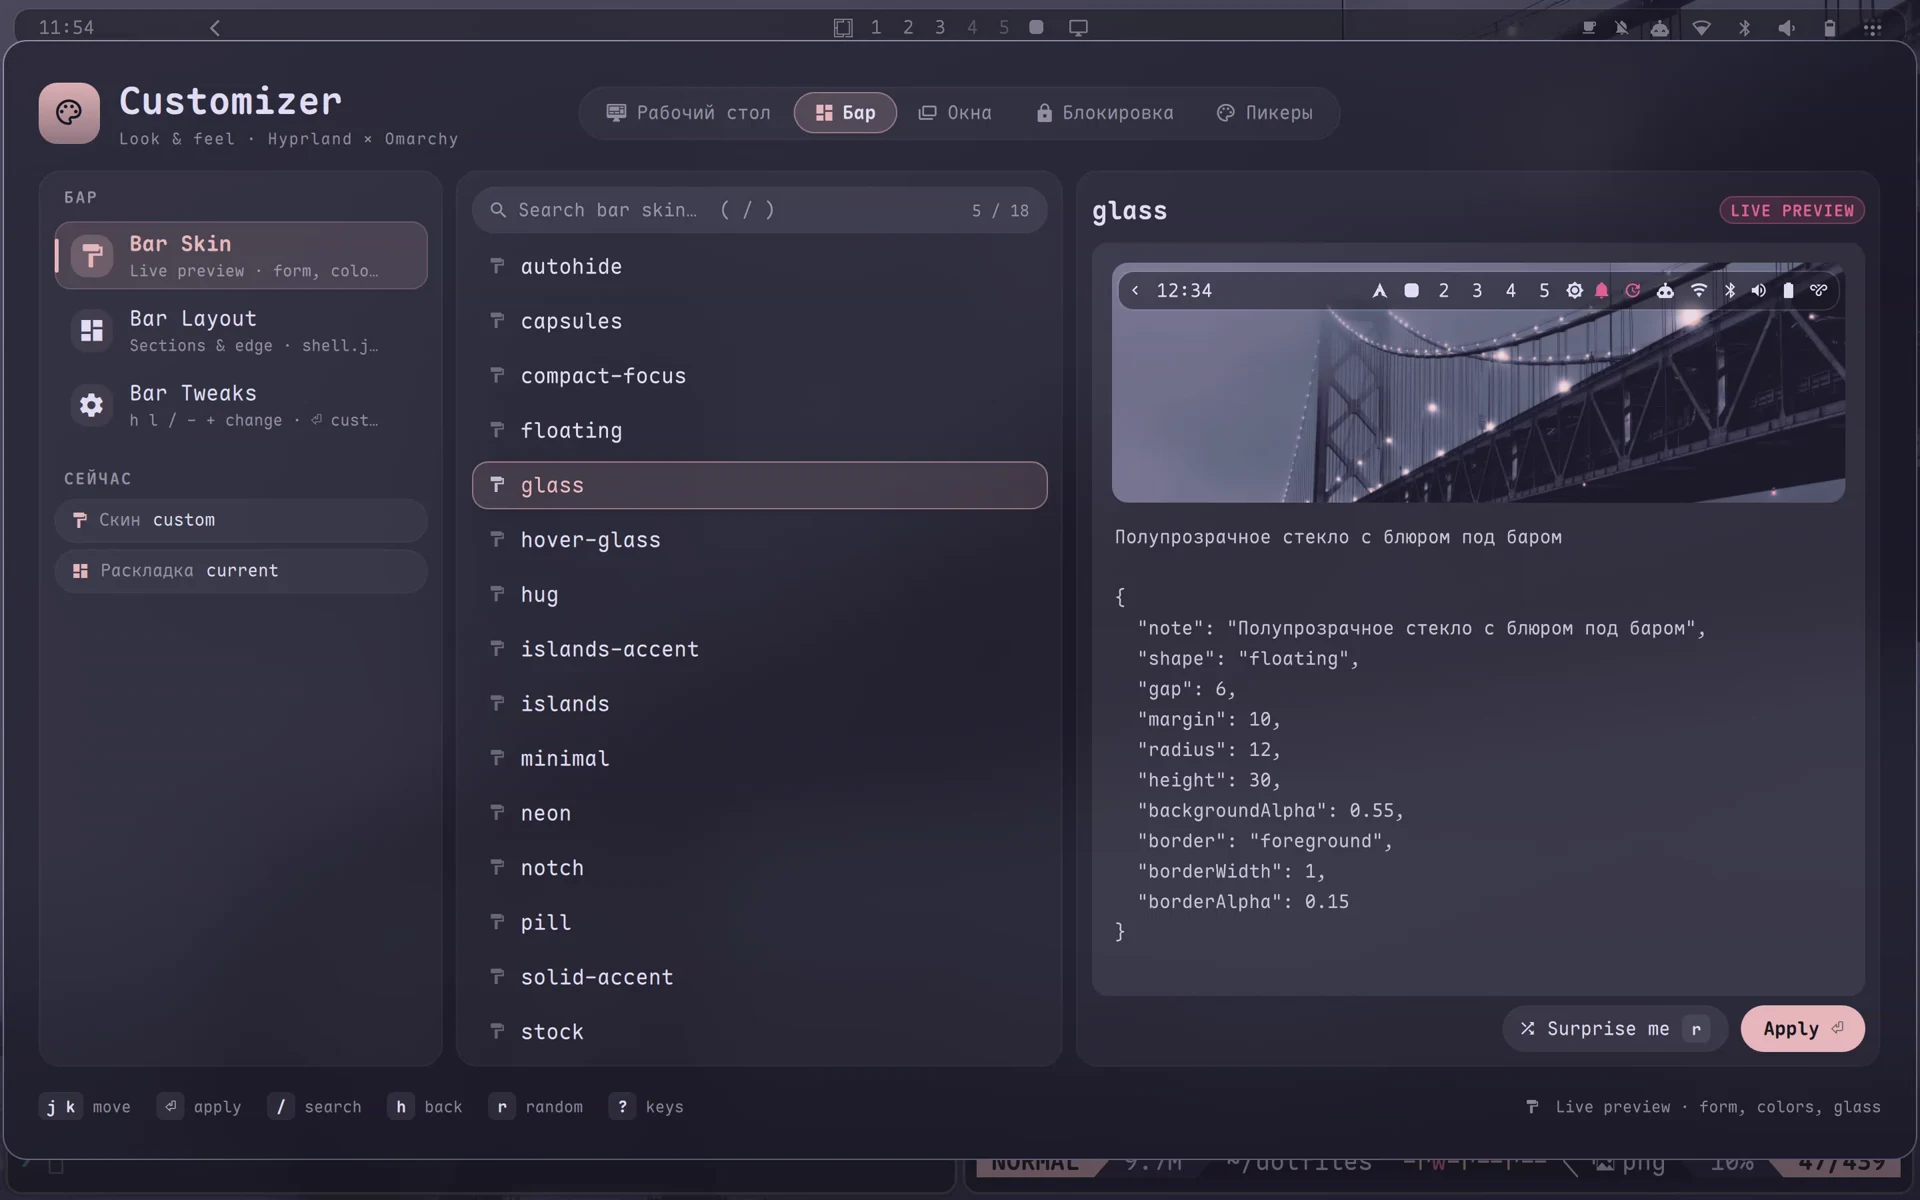
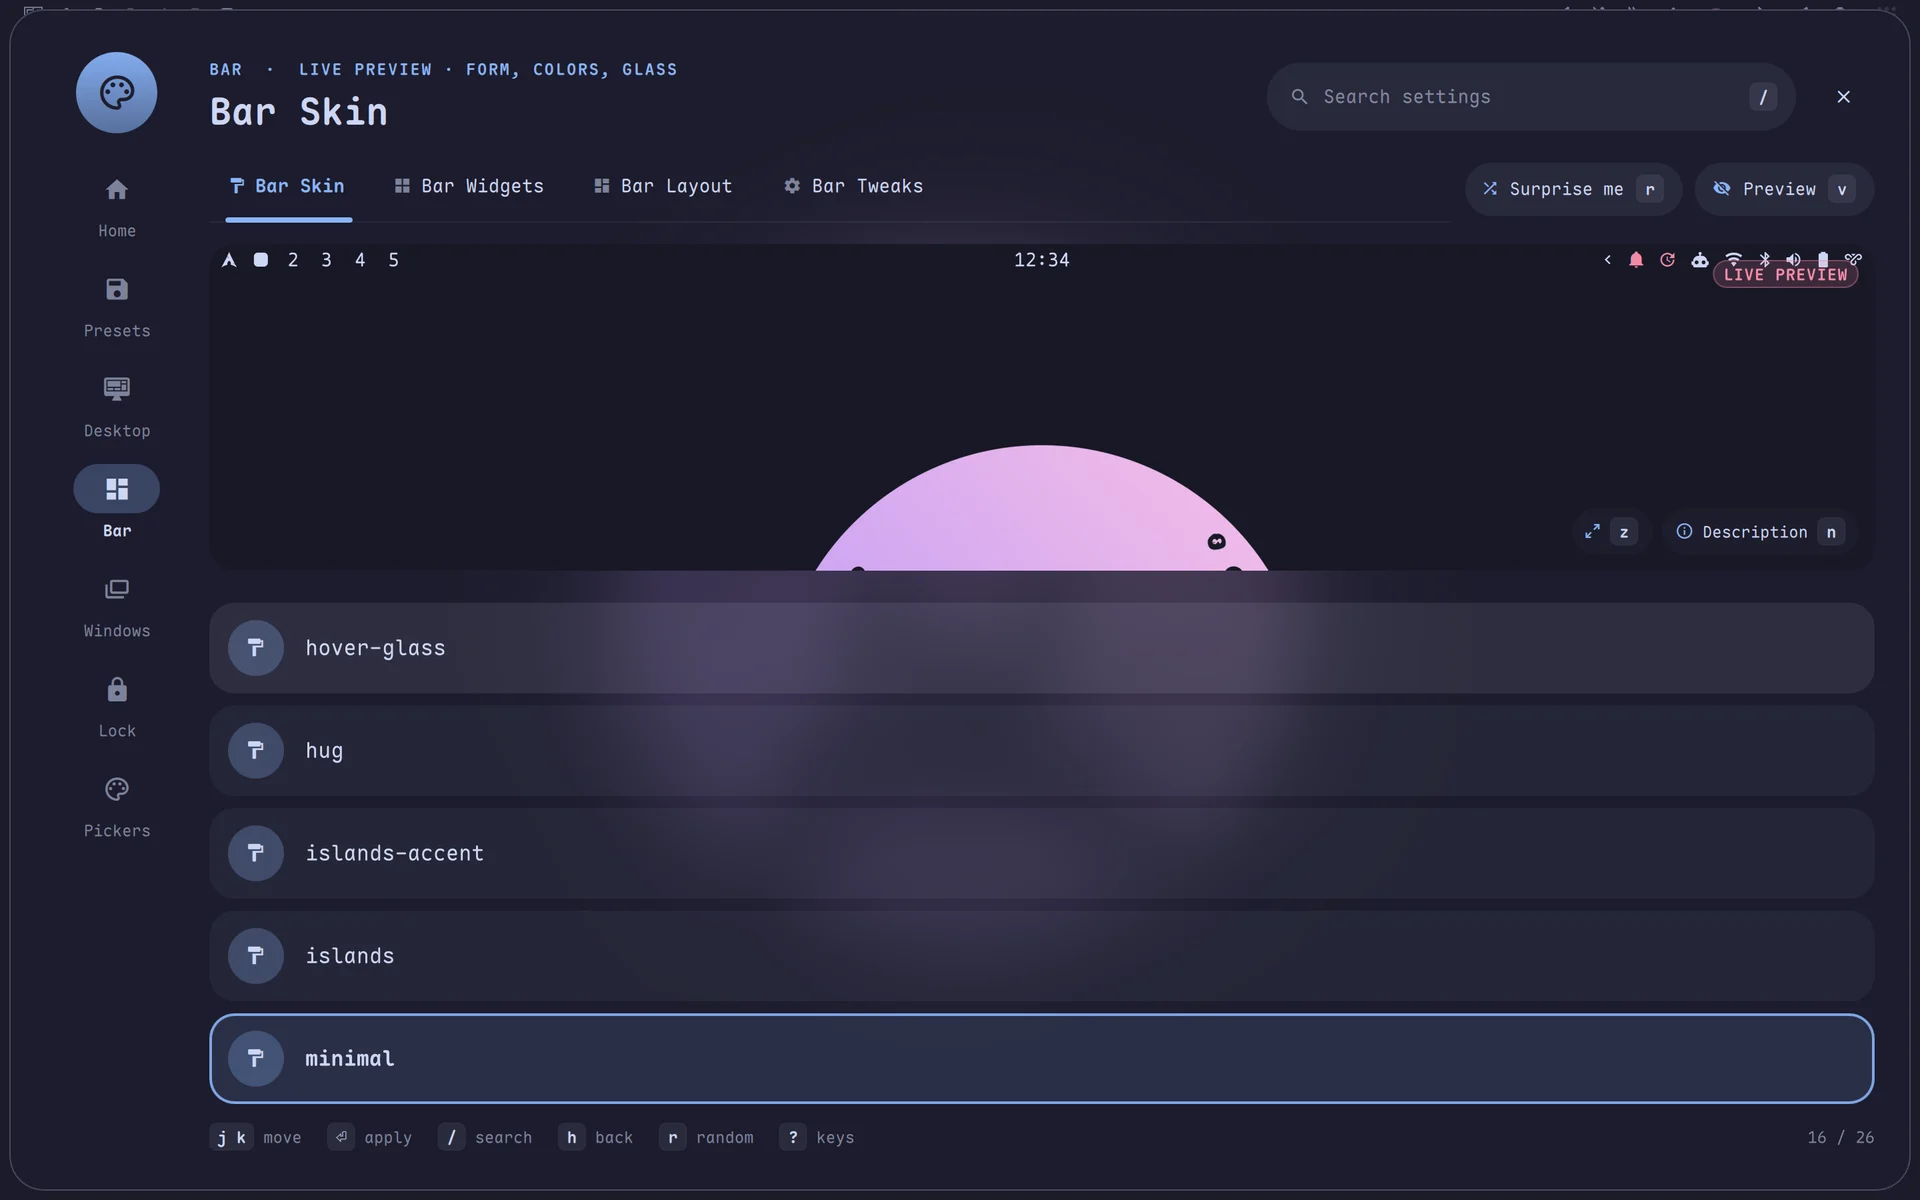
docs(bar-skins): новые скрины скинов, вертикальный бар, превью
Полосы девяти скинов (Стекло и Бумага), вертикальный бар слева, страница скинов в Customizer; место для демо-видео в README.

diff --git a/README.md b/README.md
@@ -16,6 +16,10 @@ the bar is drawn.
 
 ![Skins](screenshots/skins.webp)
 
+![Vertical bar](screenshots/vertical.webp)
+
+<!-- Demo video: repo-videos/omarchy-bar-skins.mp4 — drag it here when editing this file on GitHub -->
+
 Compact mode expanding on hover:
 
 ![Compact mode](screenshots/compact.webp)

diff --git a/README.ru.md b/README.ru.md
@@ -15,6 +15,10 @@
 
 ![Скины](screenshots/skins.webp)
 
+![Вертикальный бар](screenshots/vertical.webp)
+
+<!-- Demo video: repo-videos/omarchy-bar-skins.mp4 — drag it here when editing this file on GitHub -->
+
 ![Compact](screenshots/compact.webp)
 
 ## Установка
